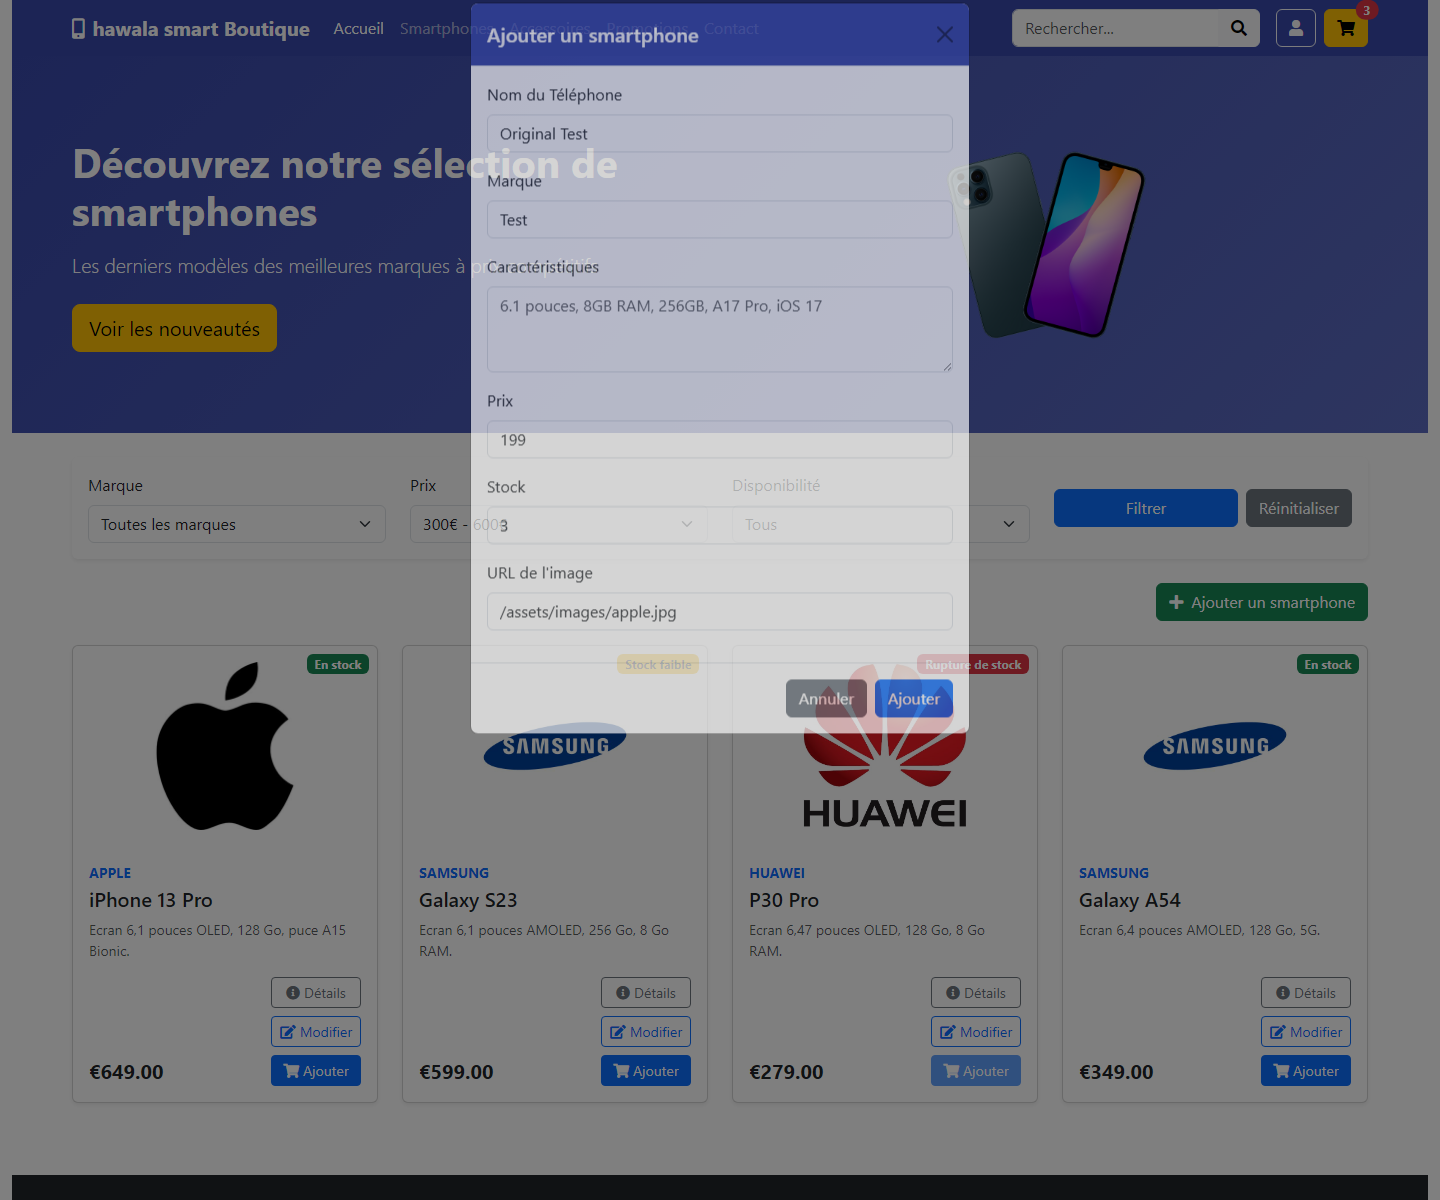
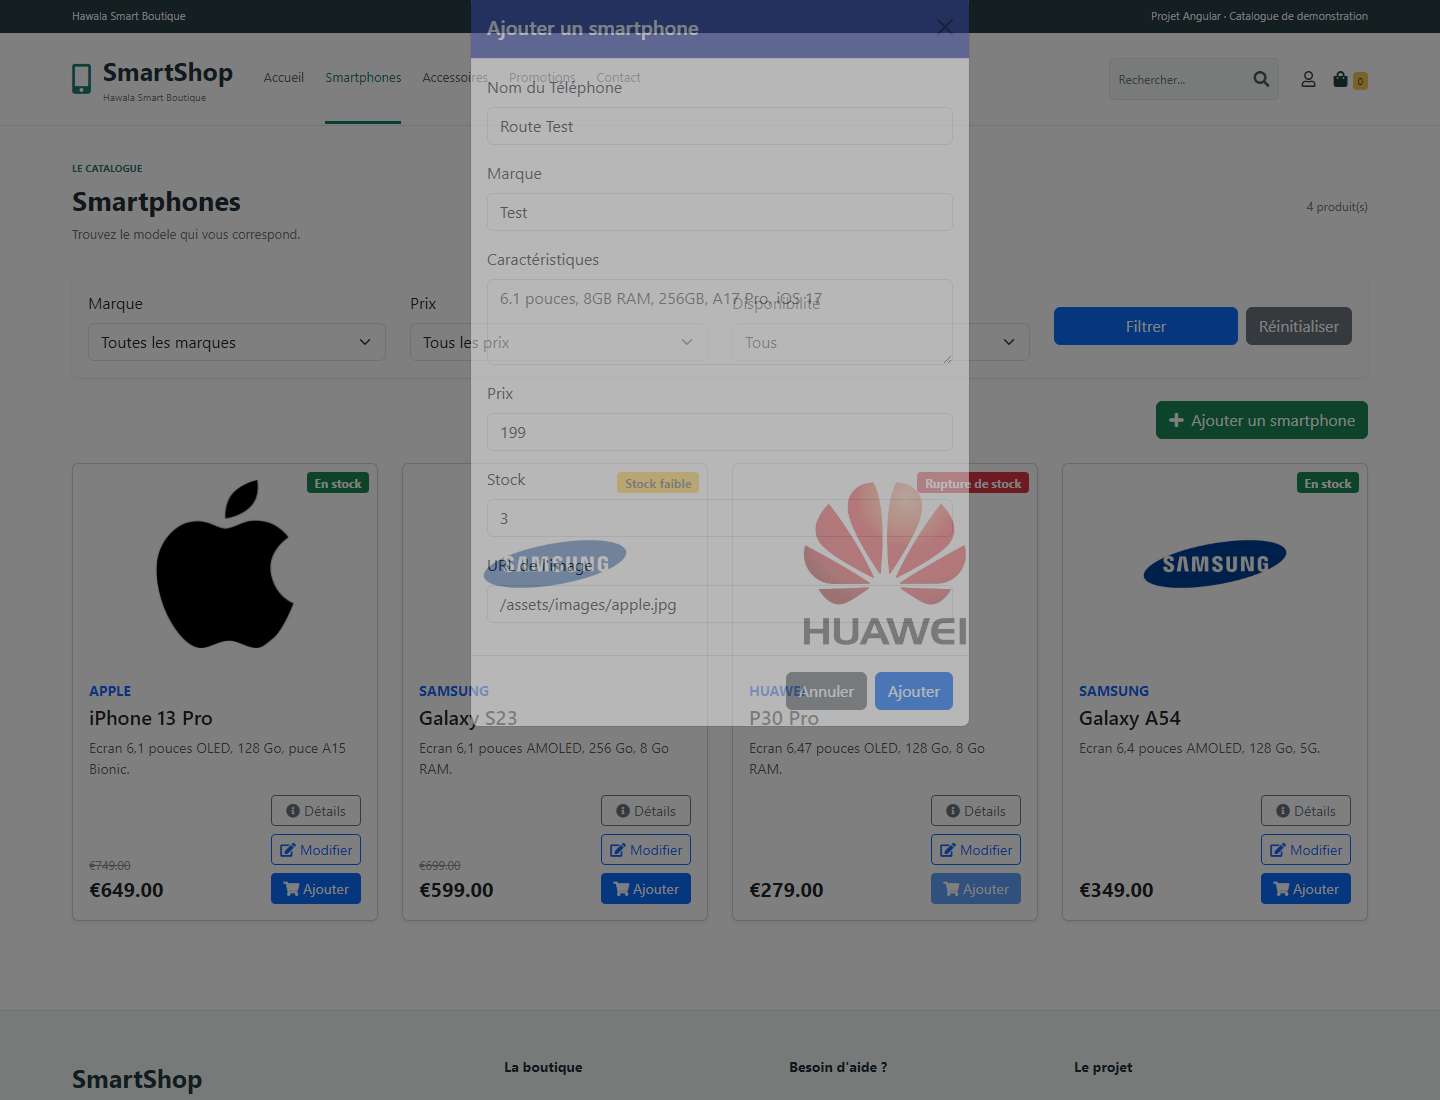
Refresh SmartShop screenshots and describe working navigation

diff --git a/Portfolio/src/components/Projects/projectData.js b/Portfolio/src/components/Projects/projectData.js
@@ -14,6 +14,7 @@ const smartshopPath = `${process.env.PUBLIC_URL}/projects/smartshop`;
 const smartshopScreenshots = [
   { src: `${smartshopPath}/catalogue.png`, caption: { fr: "Catalogue SmartShop et filtres combinés", en: "SmartShop catalogue and combined filters" } },
   { src: `${smartshopPath}/form.png`, caption: { fr: "Formulaire réactif de gestion des produits", en: "Reactive product management form" } },
+  { src: `${smartshopPath}/footer.png`, caption: { fr: "Footer et navigation vers les pages de la boutique", en: "Footer and shop page navigation" } },
 ];
 
 const projectsFr = [
@@ -107,7 +108,7 @@ const projectsFr = [
     screenshots: smartshopScreenshots,
     title: "SmartShop - Catalogue Angular",
     description:
-      "Application de catalogue et de gestion de smartphones sous Angular 17 : recherche, filtres combinés par marque, prix et disponibilité, fiches détaillées et CRUD avec formulaires réactifs. La démo Vercel reprend l'interface originale du projet avec des produits fictifs chargés depuis un fichier JSON, sans backend déployé ni achat réel. API Express et MongoDB disponibles dans le code source.",
+      "Application Angular 17 de catalogue et de gestion de smartphones : recherche, filtres, fiches détaillées et CRUD avec formulaires réactifs. Navigation multipage, accessoires, offres fictives et panier de démonstration avec quantités et totaux. Bannière et footer revus, données JSON sans backend déployé ni achat réel. API Express et MongoDB disponibles dans le code source.",
     ghLink: "https://github.com/hawalayessin/SmartphoneShop",
     demoLink: "https://smartshop-angular-demo.vercel.app",
     techTags: ["Angular", "TypeScript", "RxJS", "Bootstrap", "Express", "MongoDB"],
@@ -205,7 +206,7 @@ const projectsEn = [
     screenshots: smartshopScreenshots,
     title: "SmartShop - Angular Catalogue",
     description:
-      "Angular 17 smartphone catalogue and inventory application: search, combined brand, price and stock filters, detail pages and CRUD with reactive forms. The Vercel demo preserves the project's original interface with fictional products loaded from a JSON file, without a deployed backend or real purchases. Express and MongoDB API included in the source code.",
+      "Angular 17 smartphone catalogue and inventory application: search, filters, detail pages and CRUD with reactive forms. Multi-page navigation, accessories, fictional offers and a demo cart with quantities and totals. Refreshed banner and footer, JSON data without a deployed backend or real purchases. Express and MongoDB API included in the source code.",
     ghLink: "https://github.com/hawalayessin/SmartphoneShop",
     demoLink: "https://smartshop-angular-demo.vercel.app",
     techTags: ["Angular", "TypeScript", "RxJS", "Bootstrap", "Express", "MongoDB"],
